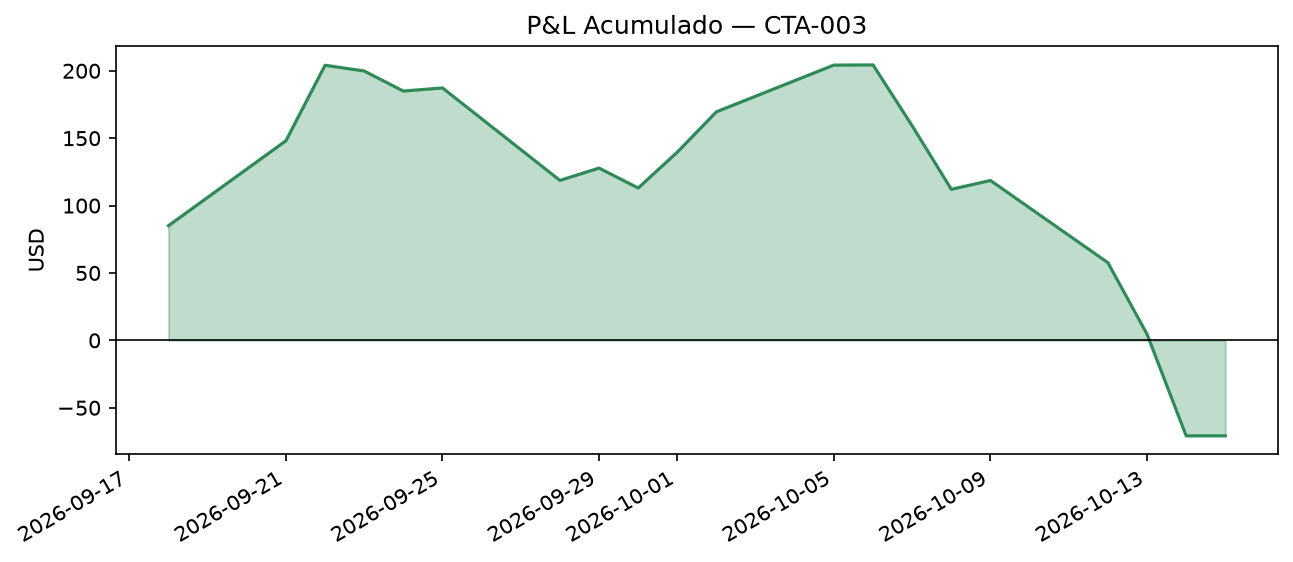
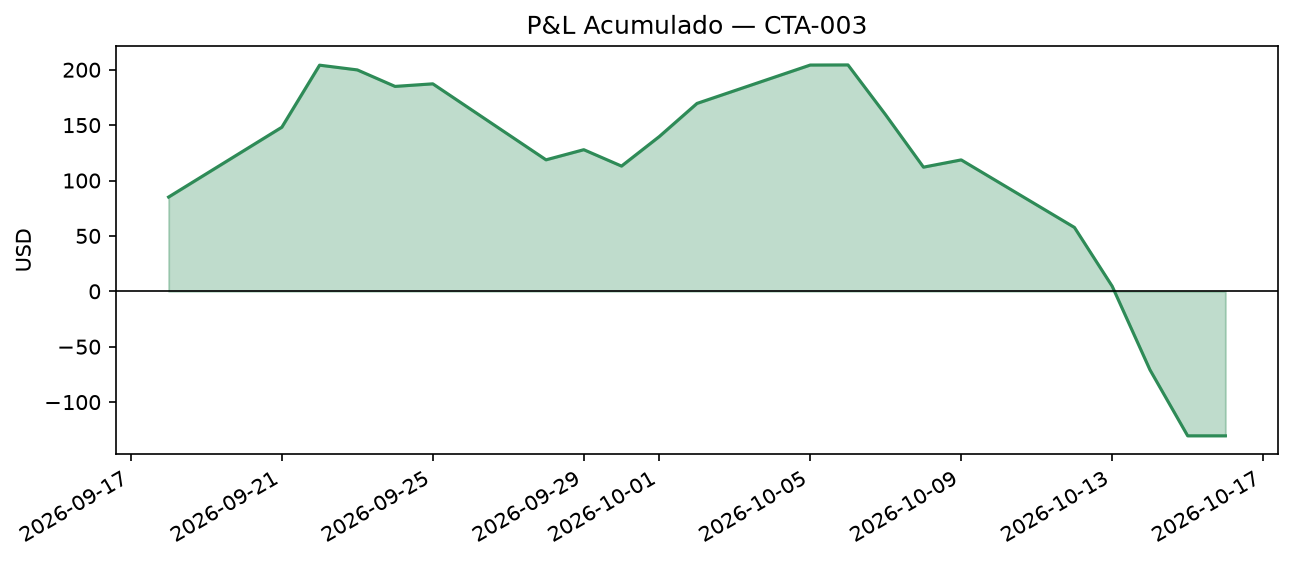
Actualiza reporte visual R3 (2026-10-16)

diff --git a/reportes/reporte_r3_2026-10-16.md b/reportes/reporte_r3_2026-10-16.md
@@ -1,0 +1,43 @@
+# Reporte Visual de Desempeño — CTA-003 (R3, Sprint 8)
+
+**Generado el:** 2026-10-16
+
+## Métricas principales
+
+- Patrimonio actual: **$9869.55** (capital inicial: $10000.00)
+- Retorno total: **-1.30%**
+- Máximo drawdown: **-3.28%**
+- Semanas operadas: **1**
+- Órdenes ejecutadas en total: **4**
+- Tickers distintos operados: **4**
+- Circuit breaker: 🟢 inactivo
+
+## Equity Curve
+
+![Equity Curve](equity_curve.png)
+
+## P&L Acumulado
+
+![P&L Acumulado](pnl_acumulado.png)
+
+## Posiciones Abiertas
+
+![Posiciones Abiertas](posiciones_abiertas.png)
+
+| ticker    |   cantidad |   precio_promedio_compra |   precio_actual |   costo_total |   valor_actual |   pnl_no_realizado |   pnl_pct |
+|:----------|-----------:|-------------------------:|----------------:|--------------:|---------------:|-------------------:|----------:|
+| NVDA      |          4 |                   213.9  |          217.23 |        855.6  |         868.92 |              13.32 |      1.56 |
+| NEM       |          7 |                   121.76 |          115.79 |        852.32 |         810.53 |             -41.79 |     -4.9  |
+| 005930.KS |          4 |                   183.42 |          156.79 |        733.68 |         627.17 |            -106.51 |    -14.52 |
+| TSM       |          1 |                   417.72 |          422.25 |        417.72 |         422.25 |               4.53 |      1.08 |
+
+## Operaciones Realizadas
+
+![Operaciones por semana](operaciones_por_semana.png)
+
+|   semana | fecha               | ticker    |   cantidad |   precio_compra |   costo |
+|---------:|:--------------------|:----------|-----------:|----------------:|--------:|
+|        1 | 2026-09-18 00:00:00 | 005930.KS |          4 |          183.42 |  733.68 |
+|        1 | 2026-09-18 00:00:00 | NEM       |          7 |          121.76 |  852.32 |
+|        1 | 2026-09-18 00:00:00 | NVDA      |          4 |          213.9  |  855.6  |
+|        1 | 2026-09-18 00:00:00 | TSM       |          1 |          417.72 |  417.72 |
